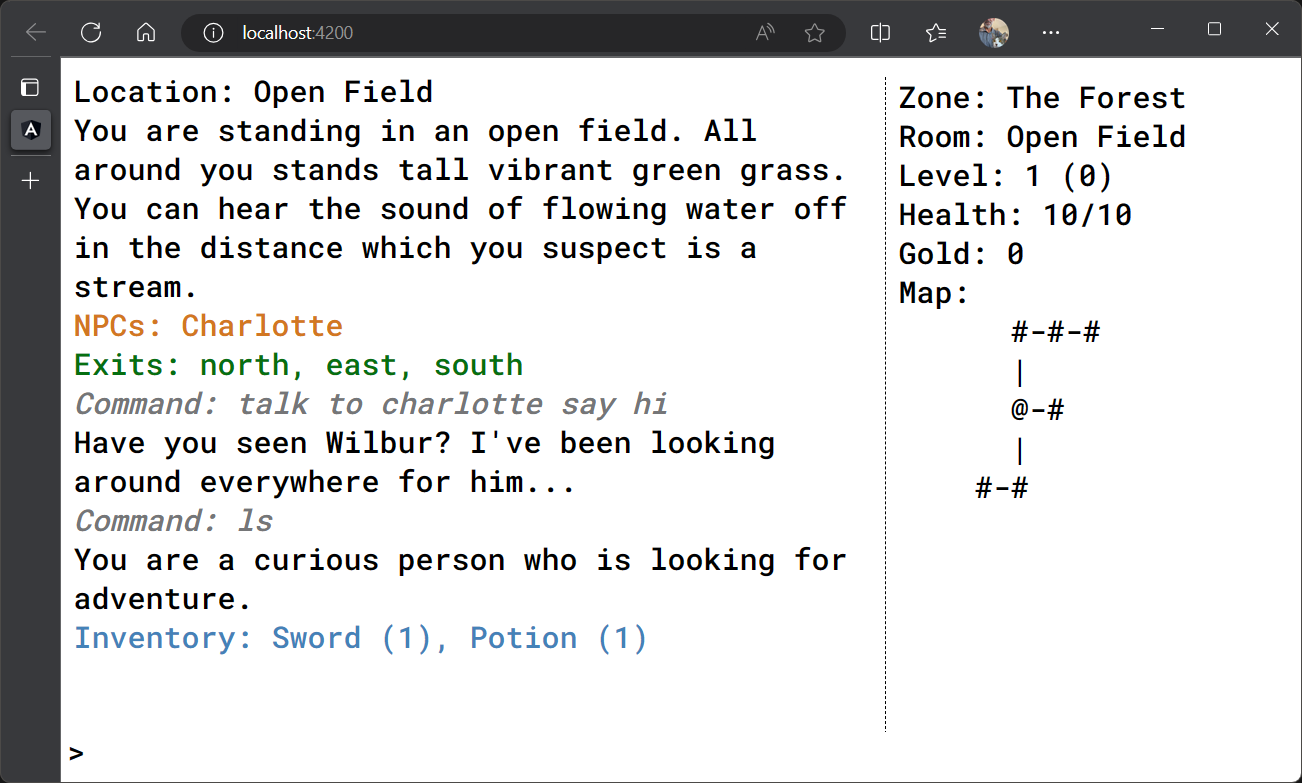
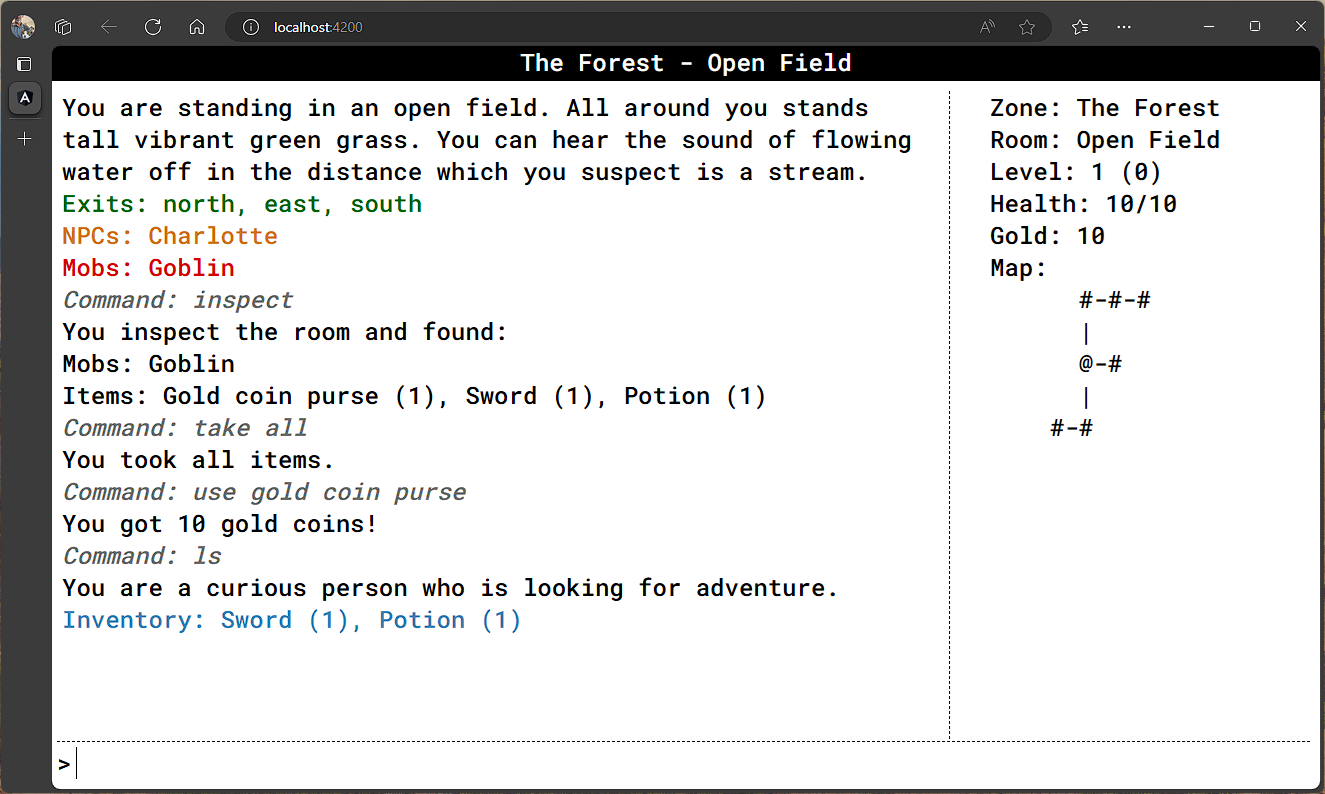
enhancements

diff --git a/backend/textworld_game.ts b/backend/textworld_game.ts
@@ -1,6 +1,6 @@
 // A Text Adventure Library & Game for Deno
 // Frank Hale &lt;frankhaledevelops AT gmail.com&gt;
-// 4 September 2024
+// 5 September 2024
 
 import * as tw from "./textworld.ts";
 
@@ -150,6 +150,7 @@ class TextworldGame {
   }
 
   place_items() {
+    this.textworld.place_item("The Forest", "Open Field", "Gold coin purse");
     this.textworld.place_item("The Forest", "Open Field", "Sword");
     this.textworld.place_item("The Forest", "Open Field", "Potion");
     this.textworld.place_item("The Forest", "Stream", "Potion", 3);

diff --git a/frontend/src/app/input/input.component.scss b/frontend/src/app/input/input.component.scss
@@ -1,13 +1,13 @@
-.input-style {
+.input-content {
   position: absolute;
   bottom: 10px;
   width: calc(100vw - 15px);
-  // border: 1px solid red;
-  padding-left: 5px;
+  border-top: 1px dashed black;
+  margin-left: 5px;
+  padding-top: 5px;
 }
 
 .input {
   padding-left: 5px;
   width: calc(100vw - 50px);
-  // border: 1px solid orange;
 }

diff --git a/backend/textworld_tests.ts b/backend/textworld_tests.ts
@@ -1,6 +1,6 @@
 // A Text Adventure Library & Game for Deno
 // Frank Hale &lt;frankhaledevelops AT gmail.com&gt;
-// 4 September 2024
+// 5 September 2024
 
 import { assertEquals } from "https://deno.land/std@0.224.0/assert/assert_equals.ts";
 import { assertNotEquals } from "https://deno.land/std@0.224.0/assert/assert_not_equals.ts";

diff --git a/frontend/src/app/input/input.component.html b/frontend/src/app/input/input.component.html
@@ -1,6 +1,6 @@
 <div>  
   @if(gameService.connected) {
-  <div class="input-style">
+  <div class="input-content">
     &gt;<input #playerTextInput type="text" [(ngModel)]="playerInput" (keydown)="onKeyDown($event)" autofocus
       spellcheck="false" class="input" />
   </div>

diff --git a/backend/textworld.ts b/backend/textworld.ts
@@ -1,6 +1,6 @@
 // A Text Adventure Library & Game for Deno
 // Frank Hale &lt;frankhaledevelops AT gmail.com&gt;
-// 4 September 2024
+// 5 September 2024
 
 export const player_progress_db_name = "game_saves.db";
 export const input_character_limit = 256;

diff --git a/frontend/src/app/output/output.component.scss b/frontend/src/app/output/output.component.scss
@@ -8,8 +8,8 @@
 }
 
 .output-content {
-  display: block;
-  margin: 10px;
+  margin-top: 10px;
+  margin-left: 10px;
   overflow-y: auto;
   height: calc(100vh - 90px);
   width: calc(100vw - 15px);

diff --git a/README.md b/README.md
@@ -67,4 +67,4 @@ Frank Hale &lt;frankhaledevelops AT gmail.com&gt;
 
 ## Date
 
-4 September 2024
+5 September 2024
